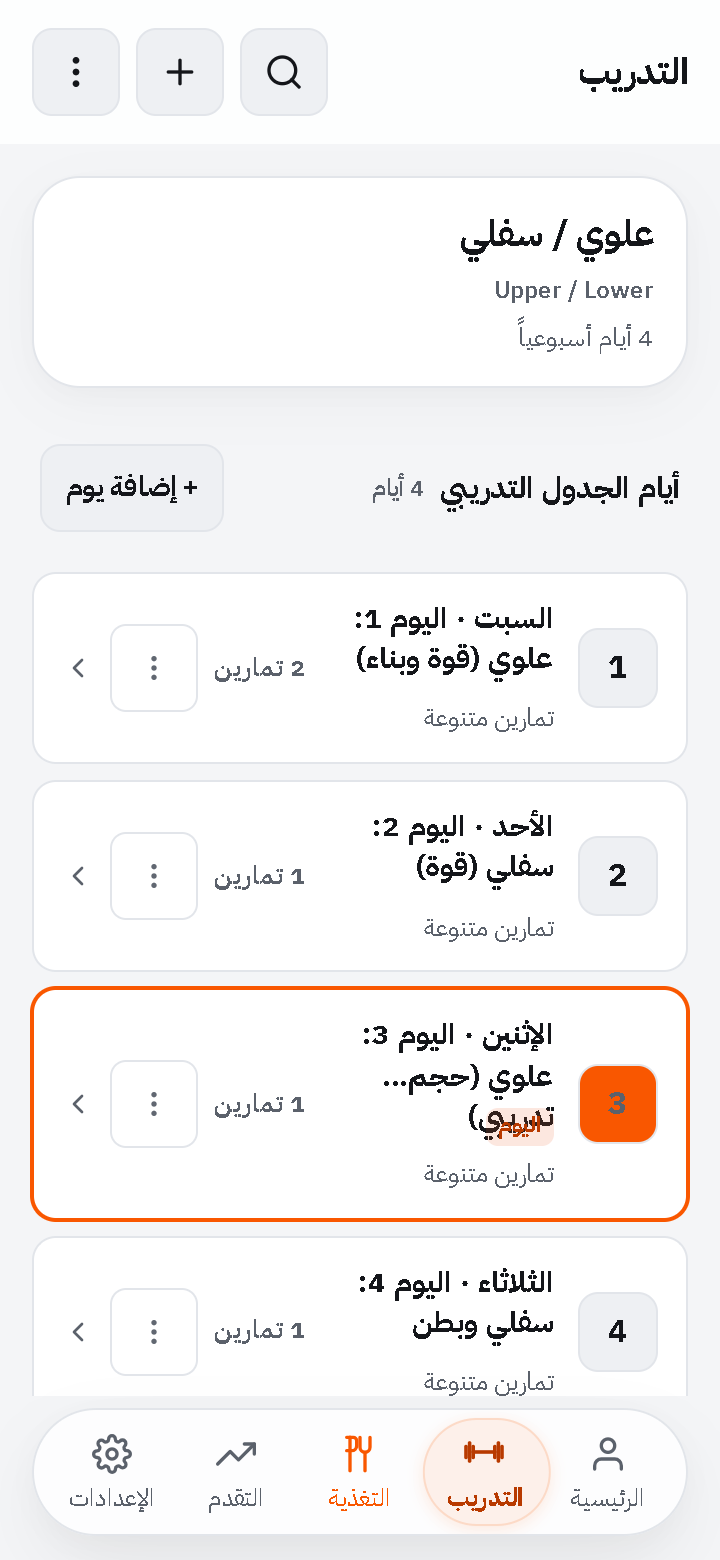
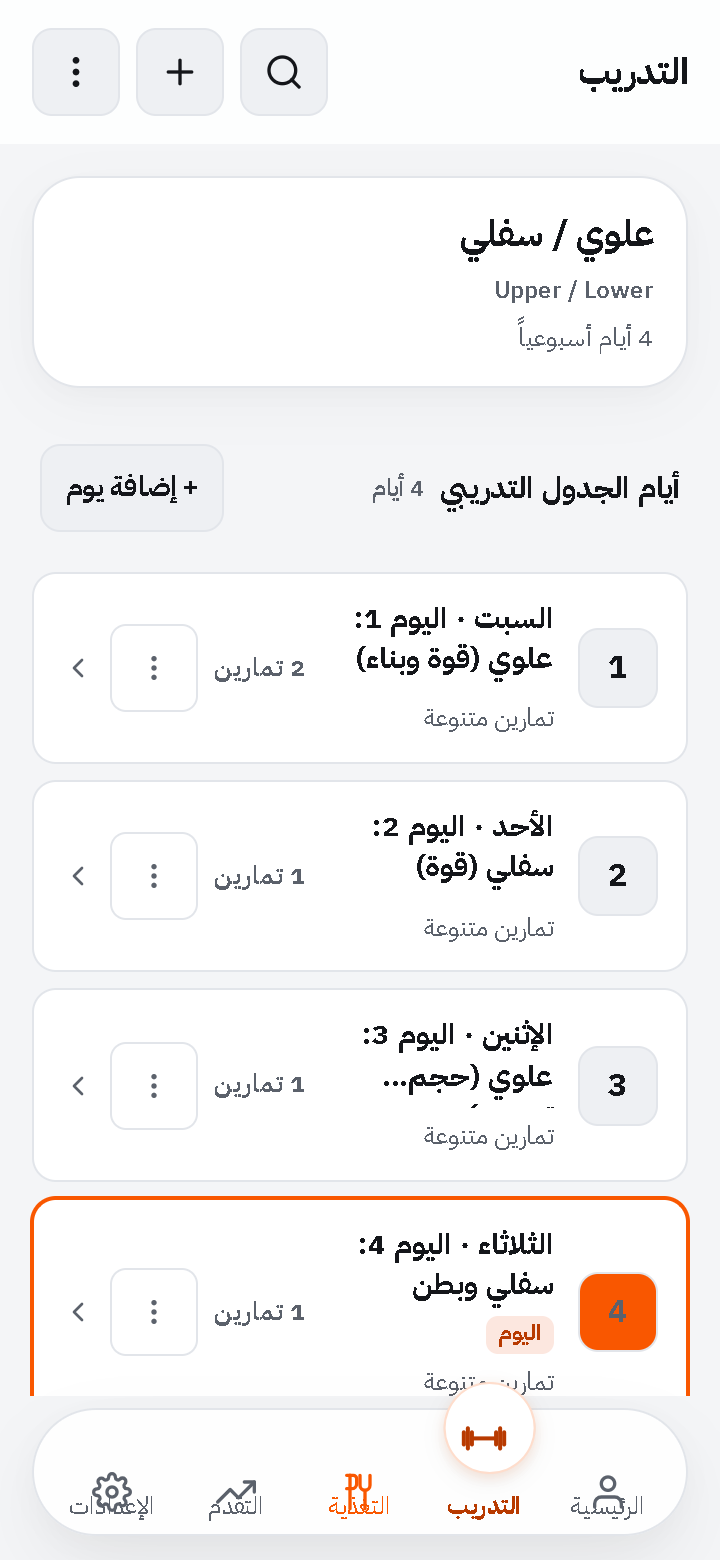
feat(ui): implement magic floating bubble navigation with spacious whitespace and softened cta glow

diff --git a/src/styles/components.css b/src/styles/components.css
@@ -228,7 +228,7 @@
   box-sizing: border-box;
 }
 
-/* BottomNav: Floating pill in shell grid with sliding spring indicator */
+/* BottomNav: Floating glass bar with elevated bubble indicator */
 .bottom-nav {
   grid-row: 4;
   position: relative;
@@ -241,37 +241,53 @@
     --nav-float-bottom,
     calc(12px + var(--safe-area-bottom, 0px))
   );
-  margin-top: 6px;
+  margin-top: 14px;
   z-index: var(--z-index-sticky, 100);
-  background: var(--nav-floating-bg, rgba(255, 255, 255, 0.85));
+  background: var(--nav-floating-bg, rgba(255, 255, 255, 0.88));
   backdrop-filter: blur(20px);
   -webkit-backdrop-filter: blur(20px);
   border-radius: 9999px;
   border: 1px solid var(--color-divider);
   box-shadow: var(--shadow-floating-nav);
-  padding: 4px;
+  padding: 0;
   box-sizing: border-box;
   display: flex;
   align-items: center;
   justify-content: space-around;
   flex-shrink: 0;
-  overflow: hidden;
+  overflow: visible;
 }
 
-.bottom-nav__pill {
+/* Sliding indicator slot tracks active tab */
+.bottom-nav__indicator {
   position: absolute;
-  top: 4px;
-  bottom: 4px;
-  inset-inline-start: 4px;
-  width: calc((100% - 8px) / 5);
-  background: var(--nav-pill-bg, rgba(249, 87, 0, 0.08));
-  border: 1px solid var(--nav-pill-border, rgba(249, 87, 0, 0.15));
-  border-radius: 9999px;
+  top: 0;
+  bottom: 0;
+  inset-inline-start: 0;
+  width: 20%;
   pointer-events: none;
-  z-index: 0;
+  z-index: 1;
   transform: translateX(calc(var(--active-index, 0) * -100%));
-  transition: transform 500ms cubic-bezier(0.34, 1.56, 0.64, 1);
-  box-shadow: 0 2px 8px rgba(249, 87, 0, 0.12);
+  transition: transform 450ms cubic-bezier(0.34, 1.56, 0.64, 1);
+}
+
+/* Floating circular bubble centered horizontally and elevated above the bar */
+.bottom-nav__indicator-bubble {
+  position: absolute;
+  top: -14px;
+  left: 50%;
+  transform: translateX(-50%);
+  width: 46px;
+  height: 46px;
+  border-radius: 50%;
+  background: var(--nav-bubble-bg, #ffffff);
+  border: 1.5px solid var(--nav-bubble-border, rgba(249, 87, 0, 0.22));
+  box-shadow: var(--shadow-nav-bubble);
+  box-sizing: border-box;
+  transition:
+    background var(--transition-fast),
+    border-color var(--transition-fast),
+    box-shadow var(--transition-fast);
 }
 
 .bottom-nav__inner {
@@ -281,7 +297,7 @@
   justify-content: space-around;
   width: 100%;
   height: 100%;
-  z-index: 1;
+  z-index: 2;
 }
 
 .bottom-nav__tab,
@@ -290,12 +306,11 @@
   display: flex;
   flex-direction: column;
   align-items: center;
-  justify-content: center;
-  gap: 2px;
+  justify-content: flex-start;
   height: 100%;
   min-height: var(--touch-target-min, 44px);
   min-width: var(--touch-target-min, 44px);
-  padding: 4px 0;
+  padding: 0;
   background: none;
   border: none;
   border-radius: 9999px;
@@ -304,38 +319,37 @@
   text-decoration: none;
   font-family: inherit;
   position: relative;
-  z-index: 1;
+  z-index: 2;
   transition:
     color var(--transition-fast),
     transform 300ms cubic-bezier(0.34, 1.56, 0.64, 1);
   -webkit-tap-highlight-color: transparent;
 }
 
-.bottom-nav__tab:hover {
+.bottom-nav__tab:hover,
+.bottom-nav__item:hover {
   color: var(--color-text);
 }
 
-.bottom-nav__tab--active,
-.bottom-nav__item--active {
-  color: var(--color-accent-text);
+.bottom-nav__tab svg,
+.bottom-nav__item svg,
+.bottom-nav__icon {
+  display: flex;
+  align-items: center;
+  justify-content: center;
+  margin-top: 10px;
+  transition:
+    transform 420ms cubic-bezier(0.34, 1.56, 0.64, 1),
+    color var(--transition-fast);
 }
 
-.bottom-nav__tab--active .bottom-nav__tab-label,
-.bottom-nav__item--active .bottom-nav__label {
-  color: var(--color-accent-text);
-  font-weight: var(--font-weight-bold);
-  transform: scale(1.04);
-  transition: transform 300ms cubic-bezier(0.34, 1.56, 0.64, 1);
-}
-
-.bottom-nav__tab--active svg,
-.bottom-nav__item--active svg {
-  color: var(--color-accent-text);
-  transform: translateY(-1px) scale(1.08);
-  transition: transform 300ms cubic-bezier(0.34, 1.56, 0.64, 1);
-}
-
-.bottom-nav__tab-label {
+.bottom-nav__tab-label,
+.bottom-nav__label {
+  position: absolute;
+  bottom: 8px;
+  left: 0;
+  right: 0;
+  text-align: center;
   font-size: var(--font-size-xs);
   font-weight: var(--font-weight-medium);
   line-height: 1.1;
@@ -343,7 +357,27 @@
   overflow: visible;
   transition:
     color var(--transition-fast),
-    transform 300ms cubic-bezier(0.34, 1.56, 0.64, 1);
+    font-weight 200ms ease;
+}
+
+/* Active Tab: Icon lifts into the floating circular bubble, label highlighted below */
+.bottom-nav__tab--active,
+.bottom-nav__item--active {
+  color: var(--color-accent-text);
+}
+
+.bottom-nav__tab--active svg,
+.bottom-nav__item--active svg,
+.bottom-nav__tab--active .bottom-nav__icon,
+.bottom-nav__item--active .bottom-nav__icon {
+  color: var(--color-accent-text);
+  transform: translateY(-13px) scale(1.1);
+}
+
+.bottom-nav__tab--active .bottom-nav__tab-label,
+.bottom-nav__item--active .bottom-nav__label {
+  color: var(--color-accent-text);
+  font-weight: var(--font-weight-bold);
 }
 
 /* ==========================================================================

diff --git a/src/styles/tokens.css b/src/styles/tokens.css
@@ -148,10 +148,19 @@
     0 16px 40px -4px rgba(0, 0, 0, 0.08), 0 6px 16px -2px rgba(0, 0, 0, 0.03);
   --shadow-floating-nav:
     0 16px 40px -6px rgba(0, 0, 0, 0.08), 0 4px 14px -2px rgba(0, 0, 0, 0.03);
-  --shadow-primary-cta: 0 10px 24px rgba(249, 87, 0, 0.32);
+  --shadow-primary-cta:
+    0 4px 14px rgba(249, 87, 0, 0.16), 0 2px 6px rgba(0, 0, 0, 0.04);
+  --shadow-primary-cta-hover:
+    0 6px 18px rgba(249, 87, 0, 0.22), 0 3px 8px rgba(0, 0, 0, 0.06);
+  --shadow-nav-bubble:
+    0 4px 12px rgba(0, 0, 0, 0.06), 0 2px 6px rgba(249, 87, 0, 0.12);
 
   /* Translucent & Tactile Tokens */
-  --nav-floating-bg: rgba(255, 255, 255, 0.82);
+  --nav-floating-bg: rgba(255, 255, 255, 0.88);
+  --nav-floating-bg-solid: #ffffff;
+  --nav-bubble-bg: #ffffff;
+  --nav-bubble-border: rgba(249, 87, 0, 0.2);
+  --nav-notch-color: #ffffff;
   --nav-pill-bg: rgba(249, 87, 0, 0.08);
   --nav-pill-border: rgba(249, 87, 0, 0.15);
   --topbar-translucent-bg: rgba(255, 255, 255, 0.85);
@@ -319,8 +328,17 @@
     0 16px 44px rgba(0, 0, 0, 0.5), 0 0 0 1px rgba(255, 255, 255, 0.1);
   --shadow-floating-nav:
     0 16px 40px rgba(0, 0, 0, 0.6), 0 0 0 1px rgba(255, 255, 255, 0.08);
-  --shadow-primary-cta: 0 10px 24px rgba(255, 107, 26, 0.35);
-  --nav-floating-bg: rgba(22, 24, 27, 0.85);
+  --shadow-primary-cta:
+    0 4px 16px rgba(255, 107, 26, 0.18), 0 2px 6px rgba(0, 0, 0, 0.2);
+  --shadow-primary-cta-hover:
+    0 6px 20px rgba(255, 107, 26, 0.24), 0 3px 8px rgba(0, 0, 0, 0.25);
+  --shadow-nav-bubble:
+    0 4px 14px rgba(0, 0, 0, 0.5), 0 2px 6px rgba(255, 107, 26, 0.18);
+  --nav-floating-bg: rgba(22, 24, 27, 0.88);
+  --nav-floating-bg-solid: #16181b;
+  --nav-bubble-bg: #1e2024;
+  --nav-bubble-border: rgba(255, 107, 26, 0.35);
+  --nav-notch-color: #16181b;
   --nav-pill-bg: rgba(255, 107, 26, 0.16);
   --nav-pill-border: rgba(255, 107, 26, 0.28);
   --topbar-translucent-bg: rgba(11, 12, 14, 0.85);

diff --git a/src/ui/BottomNav.tsx b/src/ui/BottomNav.tsx
@@ -70,7 +70,9 @@ export const BottomNav: React.FC<BottomNavProps> = ({
       data-overlay="true"
       style={{ '--active-index': activeIndex } as React.CSSProperties}
     >
-      <div className="bottom-nav__pill" aria-hidden="true" />
+      <div className="bottom-nav__indicator" aria-hidden="true">
+        <div className="bottom-nav__indicator-bubble" />
+      </div>
       <div className="bottom-nav__inner">
         {BOTTOM_NAV_TABS.map((tab) => {
           const isActive = activeTab === tab.id

diff --git a/src/App.tsx b/src/App.tsx
@@ -1467,7 +1467,9 @@ export function App({ config }: AppProps) {
             } as React.CSSProperties
           }
         >
-          <div className="bottom-nav__pill" aria-hidden="true" />
+          <div className="bottom-nav__indicator" aria-hidden="true">
+            <div className="bottom-nav__indicator-bubble" />
+          </div>
           {TABS.map((tab) => (
             <button
               key={tab.id}

diff --git a/docs/ui-check-report.md b/docs/ui-check-report.md
@@ -1,6 +1,6 @@
 # تقرير الفحص الآلي الشامل للواجهة (Production UI Quality Gates Report)
 
-- **التاريخ والوقت**: 2026-11-02T04:42:44.714Z
+- **التاريخ والوقت**: 2026-11-03T11:39:04.685Z
 - **البيئة**: Production Build (`dist/`) عبر `vite.preview` (http://localhost:5188/maganis-app/)
 - **المتصفح**: Google Chrome (Chromium)
 - **أبعاد الشاشات**: 360x780 (DPR 2 Android), 390x844 (iOS), 430x932
